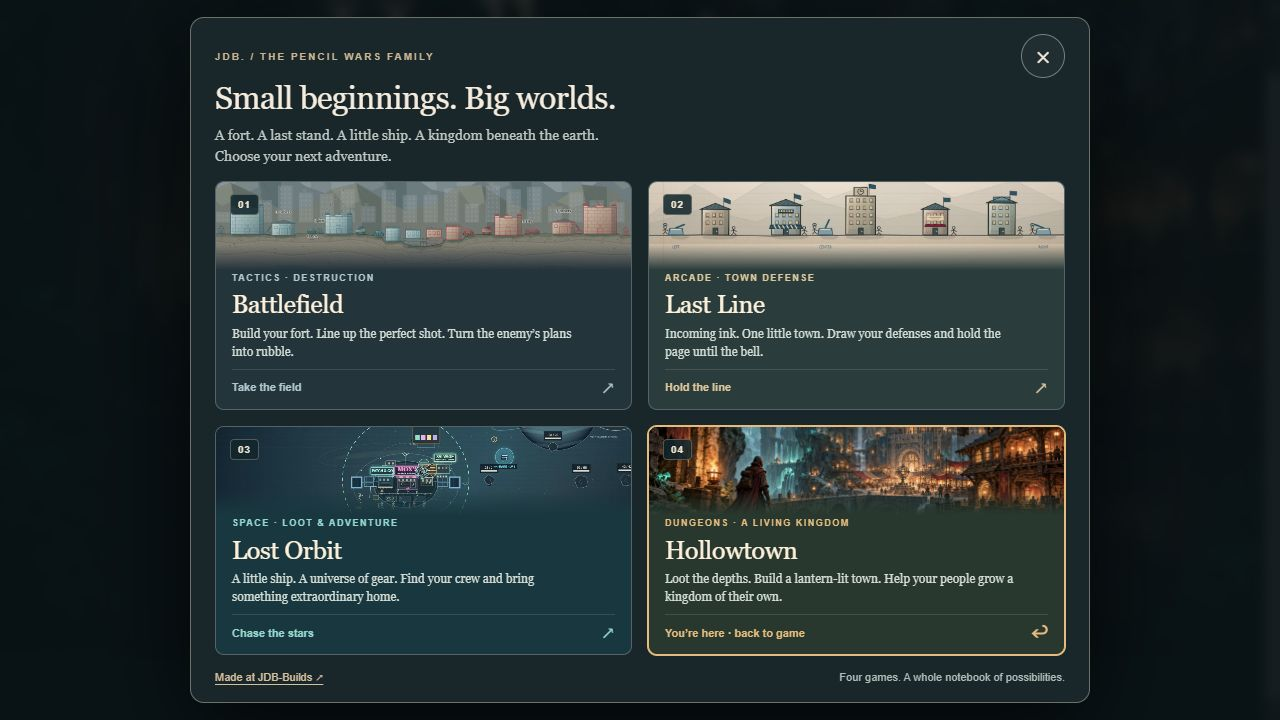
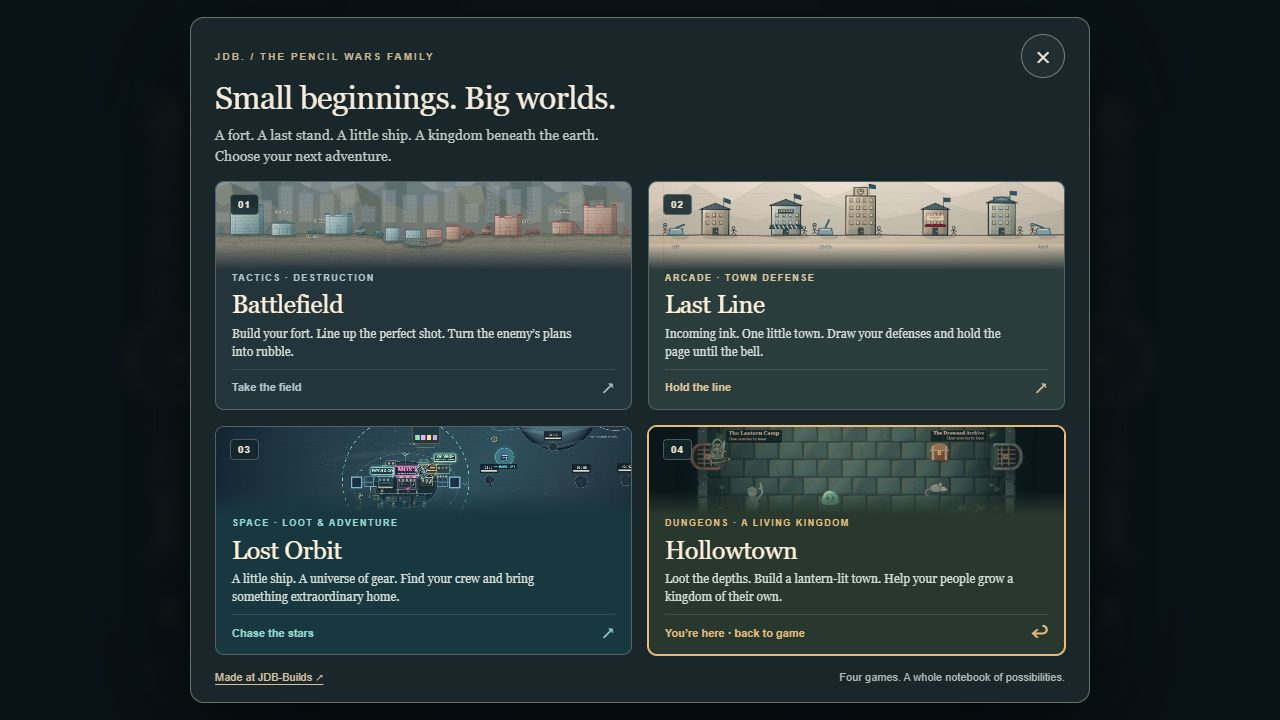
Show Hollowtown gameplay in game and website previews

Changed region(s): [[0.5, 0.5806, 0.8438, 0.7028]]

diff --git a/websites.html b/websites.html
@@ -54,7 +54,7 @@
     <div class="website-copy"><div class="website-category">Family · Remembrance</div><h3 id="site-linda-kay">In Memory of Linda Kay</h3><p>I built this memorial for my mom—a place for family photographs, remembrance, and the memories we carry with us.</p><ul class="website-tags" aria-label="Technology"><li>React &amp; TypeScript</li><li>Cloudflare Workers</li><li>D1</li></ul><div class="website-action"><span>Visit the memorial</span><span class="arrow" aria-hidden="true">↗</span></div></div><span class="sr-only">Opens in a new tab.</span></a></article>
 <article class="website-card" data-site-id="jenni-love" data-visibility="public"><a href="https://jennilynn.net/" target="_blank" rel="noopener noreferrer" aria-labelledby="site-jenni-love"><figure class="website-frame"><div class="website-frame-bar" aria-hidden="true"><span class="frame-dot"></span><span class="frame-dot"></span><span class="frame-dot"></span><span class="website-frame-domain">jennilynn.net</span></div><img src="/assets/websites/jenni-love.jpg?v=91dba754f1fd" alt="The illustrated tree on the Love Notes for Jenni homepage." width="1440" height="900" loading="lazy" decoding="async" ></figure>
     <div class="website-copy"><div class="website-category">Love · Little discoveries</div><h3 id="site-jenni-love">Love Notes for Jenni</h3><p>I made a quiet, illustrated space for Jenni, with love notes and little discoveries tucked into a growing tree.</p><ul class="website-tags" aria-label="Technology"><li>HTML / CSS / JavaScript</li><li>SVG artwork</li><li>Cloudflare Pages</li></ul><div class="website-action"><span>Explore the tree</span><span class="arrow" aria-hidden="true">↗</span></div></div><span class="sr-only">Opens in a new tab.</span></a></article></div></section>
-<section class="gallery-section" id="playful-builds" aria-labelledby="heading-playful-builds"><div class="gallery-section-heading"><span class="gallery-section-number" aria-hidden="true">02</span><div><h2 id="heading-playful-builds">Just for the fun of it.</h2><p>A paper battlefield. A little movie nostalgia. No bigger reason needed.</p></div></div><div class="gallery-grid"><article class="website-card" data-site-id="pencil-wars" data-visibility="public"><a href="/games" aria-labelledby="site-pencil-wars"><figure class="website-frame"><div class="website-frame-bar" aria-hidden="true"><span class="frame-dot"></span><span class="frame-dot"></span><span class="frame-dot"></span><span class="website-frame-domain">jdb-builds.com · JDB Games</span></div><img class="games-family-preview" src="/assets/games/family-menu.png?v=fed037946024" alt="The four-game Pencil Wars family: Battlefield, Last Line, Lost Orbit, and Hollowtown." width="1280" height="720" loading="lazy" decoding="async" ></figure>
+<section class="gallery-section" id="playful-builds" aria-labelledby="heading-playful-builds"><div class="gallery-section-heading"><span class="gallery-section-number" aria-hidden="true">02</span><div><h2 id="heading-playful-builds">Just for the fun of it.</h2><p>A paper battlefield. A little movie nostalgia. No bigger reason needed.</p></div></div><div class="gallery-grid"><article class="website-card" data-site-id="pencil-wars" data-visibility="public"><a href="/games" aria-labelledby="site-pencil-wars"><figure class="website-frame"><div class="website-frame-bar" aria-hidden="true"><span class="frame-dot"></span><span class="frame-dot"></span><span class="frame-dot"></span><span class="website-frame-domain">jdb-builds.com · JDB Games</span></div><img class="games-family-preview" src="/assets/games/family-menu.png?v=6fc643578270" alt="The four-game Pencil Wars family: Battlefield, Last Line, Lost Orbit, and Hollowtown, each shown with gameplay." width="1280" height="720" loading="lazy" decoding="async" ></figure>
     <div class="website-copy"><div class="website-category">The Pencil Wars family · Four adventures</div><h3 id="site-pencil-wars">JDB Games</h3><p>I started with a paper battlefield. Now there’s a last stand, a little ship, and a kingdom beneath the earth. Explore Battlefield, Last Line, Lost Orbit, and Hollowtown—four games I built for the love of it. Choose your next adventure on the launch page.</p><ul class="website-tags" aria-label="Technology"><li>JavaScript</li><li>Canvas</li><li>Cloudflare Pages</li></ul><div class="website-action"><span>Choose your adventure</span><span class="arrow" aria-hidden="true">↗</span></div></div></a></article>
 <article class="website-card" data-site-id="rewind" data-visibility="public"><a href="https://rewind.jdb-builds.com/" target="_blank" rel="noopener noreferrer" aria-labelledby="site-rewind"><figure class="website-frame"><div class="website-frame-bar" aria-hidden="true"><span class="frame-dot"></span><span class="frame-dot"></span><span class="frame-dot"></span><span class="website-frame-domain">rewind.jdb-builds.com</span></div><img src="/assets/websites/rewind.jpg?v=ab961fdd067c" alt="REWIND’s retro tape-deck interface for cult movie quotes." width="1440" height="900" loading="lazy" decoding="async" ></figure>
     <div class="website-copy"><div class="website-category">Movies · Tape-deck nostalgia</div><h3 id="site-rewind">REWIND</h3><p>I made a tape-deck-inspired home for cult movie quotes. Hit PLAY for another one-liner, with a little analog character around the edges.</p><ul class="website-tags" aria-label="Technology"><li>HTML / CSS / JavaScript</li><li>Canvas effects</li><li>Cloudflare Pages</li></ul><div class="website-action"><span>Press play</span><span class="arrow" aria-hidden="true">↗</span></div></div><span class="sr-only">Opens in a new tab.</span></a></article></div></section>

diff --git a/assets/games.css b/assets/games.css
@@ -5,7 +5,7 @@
 .games-hero{padding:66px 0 38px;display:grid;grid-template-columns:1fr 310px;column-gap:48px;align-items:end}.games-eyebrow{grid-column:1/-1;display:flex;align-items:center;gap:14px;color:var(--gold);font:11px/1.6 var(--mono);letter-spacing:.12em;text-transform:uppercase;margin-bottom:20px}.games-eyebrow:before{content:'';width:30px;height:1px;background:var(--gold)}h1{font:400 clamp(42px,5.4vw,67px)/1.1 var(--serif);letter-spacing:-.04em;text-wrap:balance;max-width:16ch}h1 em{font-weight:400;color:var(--gold)}.games-intro{color:var(--muted);font-size:17px;line-height:1.7;max-width:38ch;padding-bottom:5px}.games-intro span{display:block;margin-top:8px;color:var(--paper)}
 .games-caption{display:flex;align-items:center;justify-content:space-between;flex-wrap:wrap;gap:10px;padding:18px 0;margin-bottom:22px;border-top:1px solid var(--line);font:10px/1.6 var(--mono);letter-spacing:.06em;text-transform:uppercase;color:var(--muted)}.games-caption a{color:var(--gold);text-underline-offset:4px;min-height:32px;display:inline-flex;align-items:center}
 .games-grid{display:grid;grid-template-columns:repeat(2,minmax(0,1fr));gap:24px}.game-card{--accent:#adcbd4;--surface:#20343b;display:flex;flex-direction:column;min-width:0;overflow:hidden;position:relative;border:1px solid #536662;border-radius:12px;background:var(--surface);color:var(--paper);text-decoration:none;transition:border-color .18s,transform .18s;isolation:isolate}.game-card[data-game=last-line]{--accent:#dfc998;--surface:#293b39}.game-card[data-game=lost-orbit]{--accent:#90d5cc;--surface:#17363f}.game-card[data-game=hollowtown]{--accent:#e7bf75;--surface:#27382e}.game-card:hover{border-color:var(--accent);transform:translateY(-3px)}
-.game-art{height:190px;position:relative;overflow:hidden;background:var(--night)}.game-art img{display:block;width:100%;height:100%;object-fit:cover;transition:transform .4s}.game-card:hover img{transform:scale(1.035)}.game-art:after{content:'';position:absolute;inset:0;background:linear-gradient(0deg,var(--surface),transparent 35%)}.game-card[data-game=battlefield] img{object-position:50% 66%}.game-card[data-game=last-line] img{object-position:50% 100%}.game-card[data-game=hollowtown] img{object-position:50% 46%}.game-number{position:absolute;z-index:1;top:16px;left:18px;padding:4px 9px;background:#0c2029de;border:1px solid #e6d5af5c;border-radius:4px;font:11px/1.4 var(--mono);color:var(--paper)}
+.game-art{height:190px;position:relative;overflow:hidden;background:var(--night)}.game-art img{display:block;width:100%;height:100%;object-fit:cover;transition:transform .4s}.game-card:hover img{transform:scale(1.035)}.game-art:after{content:'';position:absolute;inset:0;background:linear-gradient(0deg,var(--surface),transparent 35%)}.game-card[data-game=battlefield] img{object-position:50% 66%}.game-card[data-game=last-line] img{object-position:50% 100%}.game-card[data-game=hollowtown] img{object-position:50% 60%}.game-number{position:absolute;z-index:1;top:16px;left:18px;padding:4px 9px;background:#0c2029de;border:1px solid #e6d5af5c;border-radius:4px;font:11px/1.4 var(--mono);color:var(--paper)}
 .game-copy{padding:6px 26px 24px;display:flex;flex:1;flex-direction:column}.game-copy .game-genre{font:10px/1.5 var(--mono);letter-spacing:.09em;text-transform:uppercase;color:var(--accent);margin-bottom:8px}.game-copy h2{font:400 clamp(28px,3.4vw,38px)/1.14 var(--serif);letter-spacing:-.025em}.game-copy p{font-size:16px;line-height:1.65;color:#d3ddd5;margin-top:12px;max-width:45ch}.game-action{display:flex;justify-content:space-between;align-items:center;gap:16px;border-top:1px solid #e1d3b92b;margin-top:22px;padding-top:17px;font:500 12px/1.6 var(--sans);color:var(--accent)}.game-action b{font:400 22px/1 var(--sans)}.game-note{margin-top:16px;color:#c1cfc9;font:11px/1.75 var(--mono)}
 .games-footer{display:flex;justify-content:space-between;align-items:center;flex-wrap:wrap;gap:12px;padding:32px 0 46px;margin-top:30px;border-top:1px solid var(--line);color:var(--muted);font:11px/1.7 var(--mono)}.games-footer a{color:var(--gold);min-height:44px;display:inline-flex;align-items:center;text-underline-offset:5px}.sr-only{position:absolute;width:1px;height:1px;padding:0;margin:-1px;overflow:hidden;clip:rect(0,0,0,0);white-space:nowrap;border:0}
 @media(max-width:800px){.games-hero{grid-template-columns:1fr;gap:0;padding-top:42px}.games-eyebrow{font-size:9px;margin-bottom:18px}.games-intro{margin-top:24px;max-width:48ch}.games-caption{font-size:9px}.game-art{height:155px}.game-copy{padding:6px 20px 22px}.game-copy p{font-size:15px}.games-grid{gap:18px}}

diff --git a/games.html b/games.html
@@ -5,9 +5,9 @@
 <title>JDB Games · The Pencil Wars Family</title>
 <meta name="description" content="Four browser games I built, each a world of its own. Choose Battlefield, Last Line, Lost Orbit, or Hollowtown.">
 <link rel="canonical" href="https://jdb-builds.com/games">
-<meta property="og:title" content="JDB Games · Small beginnings. Big worlds."><meta property="og:description" content="A fort. A last stand. A little ship. A kingdom beneath the earth. Choose your next adventure."><meta property="og:type" content="website"><meta property="og:url" content="https://jdb-builds.com/games"><meta property="og:image" content="https://jdb-builds.com/assets/games/family-menu.png">
+<meta property="og:title" content="JDB Games · Small beginnings. Big worlds."><meta property="og:description" content="A fort. A last stand. A little ship. A kingdom beneath the earth. Choose your next adventure."><meta property="og:type" content="website"><meta property="og:url" content="https://jdb-builds.com/games"><meta property="og:image" content="https://jdb-builds.com/assets/games/family-menu.png?v=6fc643578270">
 <link rel="preconnect" href="https://fonts.googleapis.com"><link rel="preconnect" href="https://fonts.gstatic.com" crossorigin><link href="https://fonts.googleapis.com/css2?family=Fraunces:ital,opsz,wght@0,9..144,300..700;1,9..144,300..600&family=Inter+Tight:wght@400;500;600;700&family=JetBrains+Mono:wght@400;500&display=swap" rel="stylesheet">
-<link rel="stylesheet" href="/assets/site-navigation.css?v=e684e54f1fe0"><link rel="stylesheet" href="/assets/games.css?v=20261024-launch"><script defer src="/assets/site-navigation.js?v=81b296ff41ac"></script>
+<link rel="stylesheet" href="/assets/site-navigation.css?v=e684e54f1fe0"><link rel="stylesheet" href="/assets/games.css?v=20261024-gameplay"><script defer src="/assets/site-navigation.js?v=81b296ff41ac"></script>
 </head>
 <body>
 <a class="skip-link" href="#choose-game">Skip to games</a>
@@ -77,7 +77,7 @@
 <figure class="game-art"><img src="/assets/games/lost-orbit-space.jpg" alt="Ships, planets, and a crew chart in the Lost Orbit frontier." width="1280" height="720" decoding="async" loading="lazy"><span class="game-number" aria-hidden="true">03</span></figure>
 <div class="game-copy"><p class="game-genre">Space · Loot &amp; adventure</p><h2 id="game-lost-orbit">Lost Orbit</h2><p>A little ship. A universe of gear. Find your crew and bring something extraordinary home.</p><span class="game-action">Chase the stars <b aria-hidden="true">↗</b></span></div></a>
 <a class="game-card" data-game="hollowtown" href="https://pencilwars.jdb-builds.com/hollowtown/" aria-labelledby="game-hollowtown">
-<figure class="game-art"><img src="/assets/games/hollowtown-cover.png" alt="A lantern-lit underground town beside waterfalls and towering caverns." width="1672" height="941" decoding="async" loading="lazy"><span class="game-number" aria-hidden="true">04</span></figure>
+<figure class="game-art"><img src="/assets/games/hollowtown-gameplay-7bcea436bd41.png" alt="The Wayfarer, dungeon guardians, and a treasure chest in Hollowtown gameplay." width="1280" height="720" decoding="async" loading="lazy"><span class="game-number" aria-hidden="true">04</span></figure>
 <div class="game-copy"><p class="game-genre">Dungeons · A living kingdom</p><h2 id="game-hollowtown">Hollowtown</h2><p>Loot the depths. Build a lantern-lit town. Help your people grow a kingdom of their own.</p><span class="game-action">Light your first lantern <b aria-hidden="true">↗</b></span></div></a>
 </section>
 <p class="game-note">The games open on my Pencil Wars site. Your existing browser saves stay right where they are.</p>

diff --git a/index.html b/index.html
@@ -190,7 +190,7 @@
       <div><span class="jdb-tag">Websites I’ve built</span><h3 id="jdb-websites-title">Different ideas.<br><em>Places of their own.</em></h3>
       <p>A memorial for my mom, love notes, a paper battlefield, and the daily places I return to. Each has its own story—and its own little corner of the internet.</p>
       <a class="jdb-btn jdb-btn-ghost" href="/websites">Explore my websites →</a></div>
-      <div class="jdb-websites-mosaic" aria-hidden="true"><img src="/assets/websites/linda-kay.jpg?v=d26d1f6e156c" alt="" width="1440" height="900" loading="lazy" decoding="async" ><img src="/assets/websites/pencil-wars.jpg?v=58b8c38740bc" alt="" width="1440" height="900" loading="lazy" decoding="async" ><img src="/assets/websites/jenni-love.jpg?v=91dba754f1fd" alt="" width="1440" height="900" loading="lazy" decoding="async" ></div>
+      <div class="jdb-websites-mosaic" aria-hidden="true"><img src="/assets/websites/linda-kay.jpg?v=d26d1f6e156c" alt="" width="1440" height="900" loading="lazy" decoding="async" ><img src="/assets/games/family-menu.png?v=6fc643578270" alt="" width="1280" height="720" loading="lazy" decoding="async" ><img src="/assets/websites/jenni-love.jpg?v=91dba754f1fd" alt="" width="1440" height="900" loading="lazy" decoding="async" ></div>
     </div>
   </div>
 </section><section id="jdb-current-rebalanced-work-intro">
